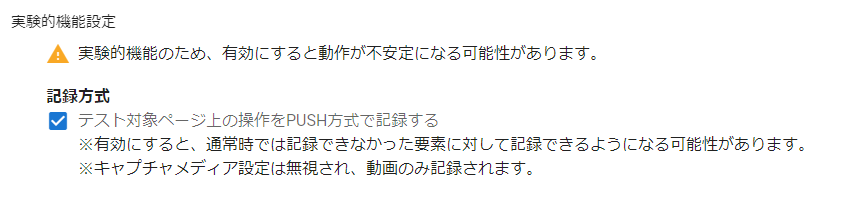
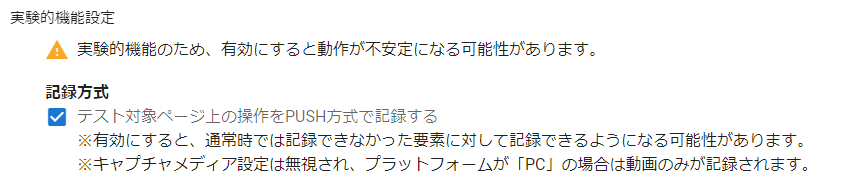
fix experimental feature manual

diff --git a/docs/manual/common/experimental-feature.md b/docs/manual/common/experimental-feature.md
@@ -8,4 +8,4 @@
 「テスト対象ページ上の操作を PUSH 方式で記録する」を ON に設定することで通常時では記録できなかった要素に対して記録ができるようになる可能性があります。
 
 :warning:記録中に設定を変えることはできません。記録終了後に設定を変更し、テストを再開することは可能です。  
-:warning:実験的機能設定を ON にするとキャプチャメディア設定の選択は無効となり、動画のみ記録されます。動画記録の詳細は「[動画記録](../common/capture-video.md)」をご参照ください。
+:warning:実験的機能設定を ON にするとキャプチャメディア設定の選択は無効となり、プラットフォームが「PC」の場合は動画のみが記録されます。動画記録の詳細は「[動画記録](../common/capture-video.md)」をご参照ください。
